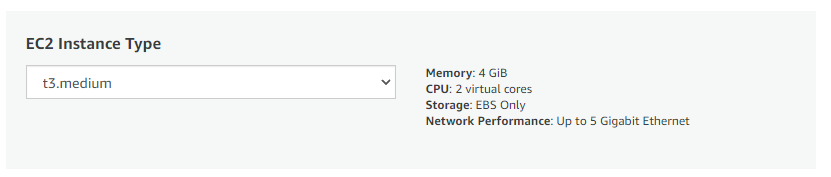
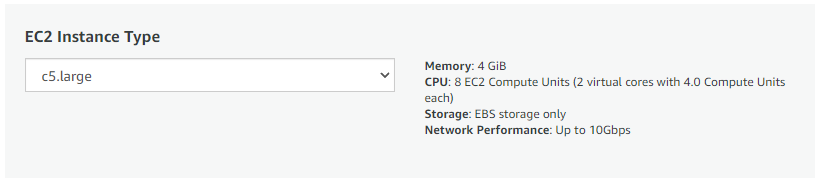
Recommend c5.large instead of t3.medium

Changed region(s): [[0.0305, 0.339, 0.9768, 0.7627], [0.0305, 0.1695, 0.4884, 0.339], [0.0305, 0.5367, 0.4884, 0.565]]

diff --git a/mlops-cloud/README.md b/mlops-cloud/README.md
@@ -51,7 +51,7 @@ Sections 2.2 and 2.3 can be skipped if you don't wish to use your own AWS accoun
 ![AWS AMI subscription button](img/subscribe.png)
 
 3. Click on *Continue to subscribe to the AMI* > *Continue to configuration* > *Continue to launch*
-4. Choose **t3.medium** instance type. This type has 2 vCPU and 4 GB of RAM which is enough resources to run the AMI.
+4. Choose **c5.large** instance type. This type has 2 powerful vCPU and 4 GB of RAM which is enough resources to run the AMI and simulation fast.
 
 ![AWS instance size list](img/instance_type.png)
 
@@ -210,7 +210,7 @@ In the AMI terminal:
 
     `cp_install.sh packlist`
 
-3. Use (cbuild)[https://arm-software.github.io/CMSIS_5/Build/html/index.html] to build the software project (this will take a few minutes)
+3. Use (cbuild)[https://arm-software.github.io/CMSIS_5/Build/html/index.html] to build the software project (this should take about a minute)
 
     `cbuild.sh microspeech.Example.cprj`
 
@@ -244,21 +244,26 @@ In the AMI terminal:
         (C) COPYRIGHT 2019-2021 Arm Limited
         ALL RIGHTS RESERVED
         
-        Heard yes (144) @1100ms
-        Heard no (142) @5600ms
-        Heard yes (149) @9100ms
-        Heard no (142) @13600ms
+        Heard yes (146) @1000ms
+        Heard no (145) @5600ms
+        Heard yes (143) @9100ms
+        Heard no (145) @13600ms
+        Heard yes (143) @17100ms
+        Heard no (145) @21600ms
         
-        …
+        Info: Simulation is stopping. Reason: Cycle limit has been exceeded.
         
-        --- cpu_core statistics: ------------------------------------------------------
-        Simulated time                          : 24.000002s
-        User time                               : 57.887562s
-        System time                             : 0.321178s
-        Wall time                               : 58.273418s
-        Performance index                       : 0.41
-        cpu_core.cpu0                           :  13.19 MIPS (   768000000 Inst)
-        -------------------------------------------------------------------------------
+        Info: /OSCI/SystemC: Simulation stopped by user.
+        [warning ][main@0][01 ns] Simulation stopped by user
+        
+        --- cpu_core statistics: ------------------------------------------------------
+        Simulated time                          : 23.999999s
+        User time                               : 25.804117s
+        System time                             : 3.336213s
+        Wall time                               : 29.132544s
+        Performance index                       : 0.82
+        cpu_core.cpu0                           :  26.36 MIPS (   768000000 Inst)
+        -------------------------------------------------------------------------------
 
 
 <a name="edit"></a>
